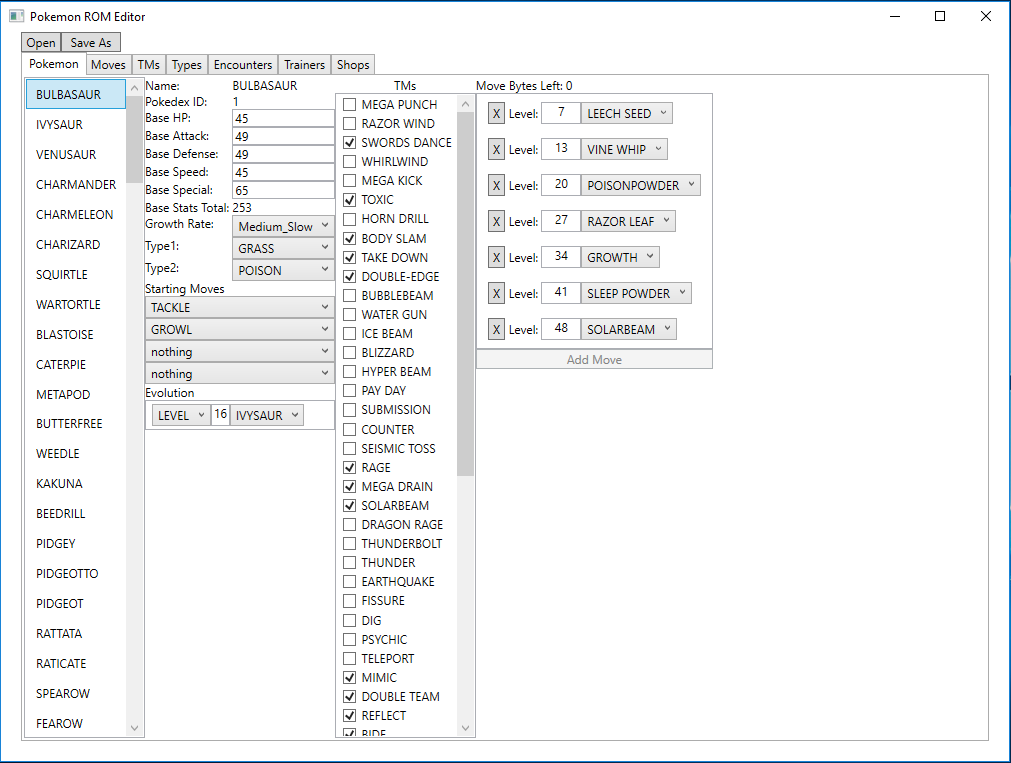
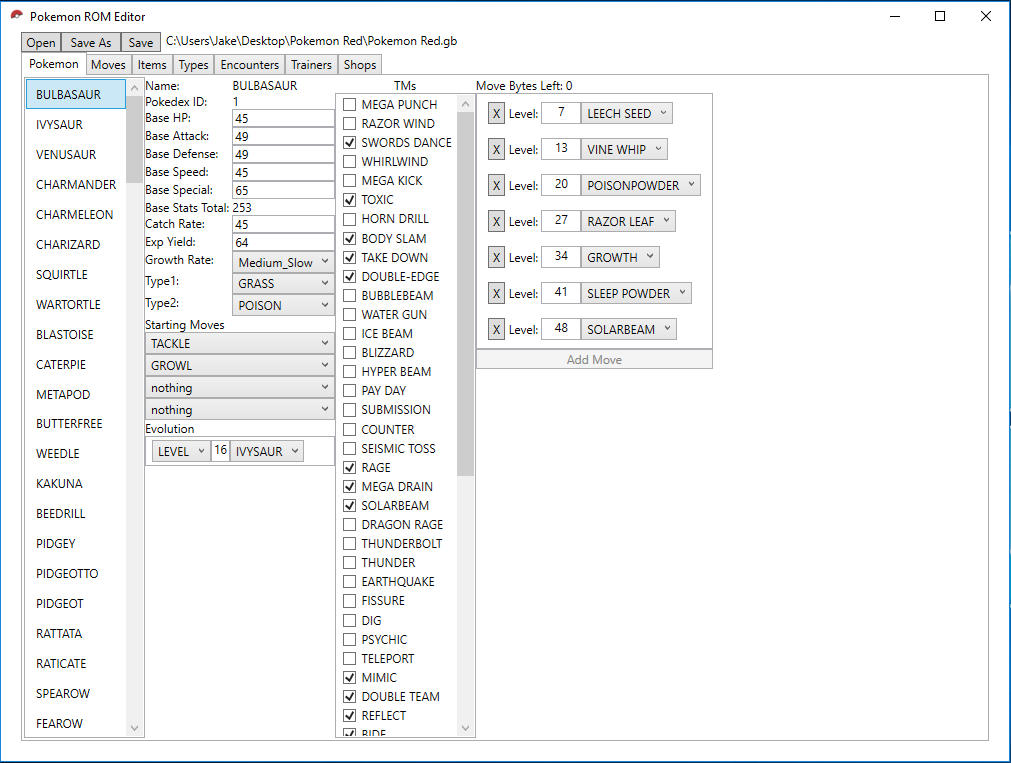
Added Exp Yield and Catch Rate to the Pokemon tab.

diff --git a/src/PokemonROMEditor/MainWindow.xaml b/src/PokemonROMEditor/MainWindow.xaml
@@ -112,6 +112,8 @@
                             <RowDefinition Height="auto" />
                             <RowDefinition Height="auto" />
                             <RowDefinition Height="auto" />
+                            <RowDefinition Height="auto" />
+                            <RowDefinition Height="auto" />
                         </Grid.RowDefinitions>
                         <TextBlock Text="Name:" Grid.Column="0" Grid.Row="0"/>
                         <TextBlock Text="Pokedex ID:" Grid.Column="0" Grid.Row="1"/>
@@ -121,8 +123,8 @@
                         <TextBlock Text="Base Speed:" Grid.Column="0" Grid.Row="5"/>
                         <TextBlock Text="Base Special:" Grid.Column="0" Grid.Row="6"/>
                         <TextBlock Text="Base Stats Total: " Grid.Column="0" Grid.Row="7"/>
-                        <TextBlock Text="Type1:" Grid.Column="0" Grid.Row="9"/>
-                        <TextBlock Text="Type2:" Grid.Column="0" Grid.Row="10"/>
+                        <TextBlock Text="Catch Rate: " Grid.Column="0" Grid.Row="8"/>
+                        <TextBlock Text="Exp Yield: " Grid.Column="0" Grid.Row="9"/>
                         <TextBlock Text="{Binding SelectedPokemon.Name}" Grid.Column="1" Grid.Row="0"/>
                         <TextBlock Text="{Binding SelectedPokemon.PokedexID}" Grid.Column="1" Grid.Row="1"/>
                         <TextBox Grid.Column="1" Grid.Row="2">
@@ -171,18 +173,38 @@
                             </TextBox.Text>
                         </TextBox>
                         <TextBlock Text="{Binding SelectedPokemon.StatTotal}" Grid.Column="1" Grid.Row="7"/>
-                        <TextBlock Text="Growth Rate:" Grid.Column="0" Grid.Row="8"/>
-                        <ComboBox SelectedItem="{Binding Path=SelectedPokemon.GrowthRate}" ItemsSource="{Binding Source={StaticResource growthEnum}}" Grid.Column="1" Grid.Row="8"/>
-                        <ComboBox SelectedItem="{Binding Path=SelectedPokemon.Type1}" ItemsSource="{Binding Source={StaticResource typesEnum}}" Grid.Column="1" Grid.Row="9"/>
-                        <ComboBox SelectedItem="{Binding Path=SelectedPokemon.Type2}" ItemsSource="{Binding Source={StaticResource typesEnum}}" Grid.Column="1" Grid.Row="10"/>
-                        <TextBlock Text="Starting Moves" Grid.Column="0" Grid.ColumnSpan="2" Grid.Row="11"/>
-                        <ComboBox SelectedIndex="{Binding Path=SelectedPokemon.Move1}" ItemsSource="{Binding Path=MoveNames}" DisplayMemberPath="Name" Grid.Column="0" Grid.Row="12" Grid.ColumnSpan="2"/>
-                        <ComboBox SelectedIndex="{Binding Path=SelectedPokemon.Move2}" ItemsSource="{Binding Path=MoveNames}" DisplayMemberPath="Name" Grid.Column="0" Grid.Row="13" Grid.ColumnSpan="2"/>
-                        <ComboBox SelectedIndex="{Binding Path=SelectedPokemon.Move3}" ItemsSource="{Binding Path=MoveNames}" DisplayMemberPath="Name" Grid.Column="0" Grid.Row="14" Grid.ColumnSpan="2"/>
-                        <ComboBox SelectedIndex="{Binding Path=SelectedPokemon.Move4}" ItemsSource="{Binding Path=MoveNames}" DisplayMemberPath="Name" Grid.Column="0" Grid.Row="15" Grid.ColumnSpan="2"/>
+                        <TextBox Grid.Column="1" Grid.Row="8">
+                            <TextBox.Text>
+                                <Binding Path="SelectedPokemon.CatchRate">
+                                    <Binding.ValidationRules>
+                                        <model:ByteRangeRule/>
+                                    </Binding.ValidationRules>
+                                </Binding>
+                            </TextBox.Text>
+                        </TextBox>
+                        <TextBox Grid.Column="1" Grid.Row="9">
+                            <TextBox.Text>
+                                <Binding Path="SelectedPokemon.ExpYield">
+                                    <Binding.ValidationRules>
+                                        <model:ByteRangeRule/>
+                                    </Binding.ValidationRules>
+                                </Binding>
+                            </TextBox.Text>
+                        </TextBox>
+                        <TextBlock Text="Growth Rate:" Grid.Column="0" Grid.Row="10"/>
+                        <ComboBox SelectedItem="{Binding Path=SelectedPokemon.GrowthRate}" ItemsSource="{Binding Source={StaticResource growthEnum}}" Grid.Column="1" Grid.Row="10"/>
+                        <TextBlock Text="Type1:" Grid.Column="0" Grid.Row="11"/>
+                        <TextBlock Text="Type2:" Grid.Column="0" Grid.Row="12"/>
+                        <ComboBox SelectedItem="{Binding Path=SelectedPokemon.Type1}" ItemsSource="{Binding Source={StaticResource typesEnum}}" Grid.Column="1" Grid.Row="11"/>
+                        <ComboBox SelectedItem="{Binding Path=SelectedPokemon.Type2}" ItemsSource="{Binding Source={StaticResource typesEnum}}" Grid.Column="1" Grid.Row="12"/>
+                        <TextBlock Text="Starting Moves" Grid.Column="0" Grid.ColumnSpan="2" Grid.Row="13"/>
+                        <ComboBox SelectedIndex="{Binding Path=SelectedPokemon.Move1}" ItemsSource="{Binding Path=MoveNames}" DisplayMemberPath="Name" Grid.Column="0" Grid.Row="14" Grid.ColumnSpan="2"/>
+                        <ComboBox SelectedIndex="{Binding Path=SelectedPokemon.Move2}" ItemsSource="{Binding Path=MoveNames}" DisplayMemberPath="Name" Grid.Column="0" Grid.Row="15" Grid.ColumnSpan="2"/>
+                        <ComboBox SelectedIndex="{Binding Path=SelectedPokemon.Move3}" ItemsSource="{Binding Path=MoveNames}" DisplayMemberPath="Name" Grid.Column="0" Grid.Row="16" Grid.ColumnSpan="2"/>
+                        <ComboBox SelectedIndex="{Binding Path=SelectedPokemon.Move4}" ItemsSource="{Binding Path=MoveNames}" DisplayMemberPath="Name" Grid.Column="0" Grid.Row="17" Grid.ColumnSpan="2"/>
 
-                        <TextBlock Text="Evolution" Grid.Column="0" Grid.ColumnSpan="2" Grid.Row="16"/>
-                        <ListView ItemsSource="{Binding SelectedPokemon.Evolutions}" Grid.Column="0" Grid.Row="17" Grid.ColumnSpan="2">
+                        <TextBlock Text="Evolution" Grid.Column="0" Grid.ColumnSpan="2" Grid.Row="18"/>
+                        <ListView ItemsSource="{Binding SelectedPokemon.Evolutions}" Grid.Column="0" Grid.Row="19" Grid.ColumnSpan="2">
                             <ListView.ItemTemplate>
                                 <DataTemplate>
                                     <StackPanel Orientation="Horizontal" >
